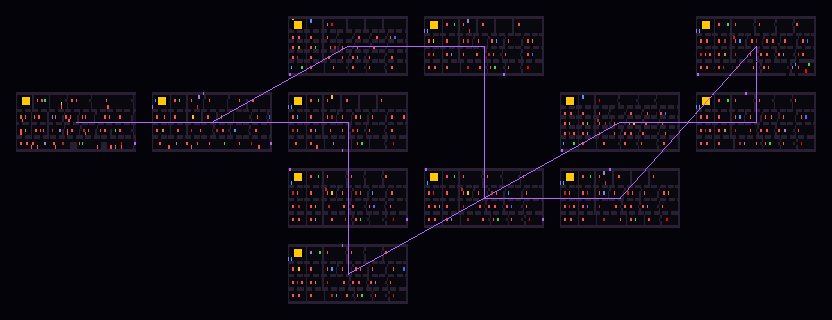
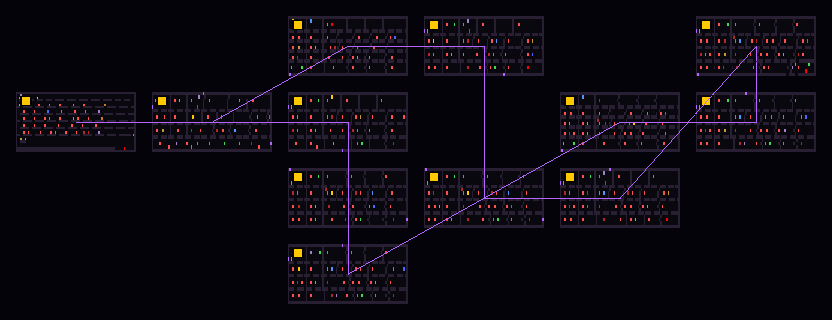
Update enemy sprites, zone gallery, and map images
- Replace Cave Bat and Fungal Spitter emoji placeholders with PixelLab
  pixel art sprites
- Expand zone gallery from 4 cards to full 12-zone list with boss names,
  ability rewards, and links to map detail pages
- Update enemy grid to 4-column layout for 8 enemy types
- Update Zone 1 dimensions to 80x26 organic layout (was 140x35 L-shape)
- Add layout meta card to Zone 1 detail page
- Regenerate zone map images from updated ASCII data

Changed region(s): [[0.0, 0.2812, 0.1562, 0.4688]]

diff --git a/index.html b/index.html
@@ -242,7 +242,7 @@
         </div>
         <div class="enemy-card">
           <div class="enemy-image">
-            <div class="enemy-placeholder">&#129415;</div>
+            <img src="images/characters/cave_bat_south.png" alt="Cave Bat" class="pixel-art">
           </div>
           <h4>Cave Bat</h4>
           <div class="enemy-type">Flying &amp; Swoop</div>
@@ -250,7 +250,7 @@
         </div>
         <div class="enemy-card">
           <div class="enemy-image">
-            <div class="enemy-placeholder">&#127812;</div>
+            <img src="images/characters/fungal_spitter_south.png" alt="Fungal Spitter" class="pixel-art">
           </div>
           <h4>Fungal Spitter</h4>
           <div class="enemy-type">Stationary &amp; Ranged</div>
@@ -267,23 +267,119 @@
       <h2 class="section-title">12 Zones of Dark Power</h2>
       <p class="section-subtitle">Each zone escalates in challenge and atmosphere, from shadowed caves to the edge of primordial darkness itself.</p>
 
-      <div class="zone-gallery">
-        <div class="zone-card">
-          <img src="images/backgrounds/bg_01_awakening.png" alt="The Awakening">
-          <div class="zone-card-overlay">1. The Awakening</div>
-        </div>
-        <div class="zone-card">
-          <img src="images/backgrounds/bg_06_abyssal_gate.png" alt="Abyssal Gate">
-          <div class="zone-card-overlay">6. Abyssal Gate</div>
-        </div>
-        <div class="zone-card">
-          <img src="images/backgrounds/bg_08_eldritch_convergence.png" alt="Eldritch Convergence">
-          <div class="zone-card-overlay">8. Eldritch Convergence</div>
-        </div>
-        <div class="zone-card">
-          <img src="images/backgrounds/bg_12_primordial_darkness.png" alt="Primordial Darkness">
-          <div class="zone-card-overlay">12. Primordial Darkness</div>
-        </div>
+      <div class="zone-list">
+        <a href="maps/zone-01-awakening.html" class="zone-row">
+          <img src="images/backgrounds/bg_01_awakening.png" alt="The Awakening" class="zone-row-bg">
+          <div class="zone-row-info">
+            <span class="zone-num">1</span>
+            <div>
+              <h4>The Awakening</h4>
+              <p>Boss: Awakening Guardian &middot; Reward: <strong>Dash</strong></p>
+            </div>
+          </div>
+        </a>
+        <a href="maps/zone-02-shadowed-path.html" class="zone-row">
+          <div class="zone-row-info">
+            <span class="zone-num">2</span>
+            <div>
+              <h4>Shadowed Path</h4>
+              <p>Boss: Shadow Stalker &middot; Reward: <strong>Mana Surge</strong></p>
+            </div>
+          </div>
+        </a>
+        <a href="maps/zone-03-whispering-dark.html" class="zone-row">
+          <div class="zone-row-info">
+            <span class="zone-num">3</span>
+            <div>
+              <h4>Whispering Dark</h4>
+              <p>Boss: Whispering Wraith &middot; Reward: <strong>Wall Climb</strong></p>
+            </div>
+          </div>
+        </a>
+        <a href="maps/zone-04-gathering-storm.html" class="zone-row">
+          <div class="zone-row-info">
+            <span class="zone-num">4</span>
+            <div>
+              <h4>Gathering Storm</h4>
+              <p>Boss: Storm Herald &middot; Reward: <strong>Dark Harvest</strong></p>
+            </div>
+          </div>
+        </a>
+        <a href="maps/zone-05-veil-torn.html" class="zone-row">
+          <div class="zone-row-info">
+            <span class="zone-num">5</span>
+            <div>
+              <h4>Veil Torn</h4>
+              <p>Boss: Veil Ripper &middot; Reward: <strong>Essence Storm</strong></p>
+            </div>
+          </div>
+        </a>
+        <a href="maps/zone-06-abyssal-gate.html" class="zone-row">
+          <img src="images/backgrounds/bg_06_abyssal_gate.png" alt="Abyssal Gate" class="zone-row-bg">
+          <div class="zone-row-info">
+            <span class="zone-num">6</span>
+            <div>
+              <h4>Abyssal Gate</h4>
+              <p>Boss: Gate Keeper &middot; Reward: <strong>Shadow Clone</strong></p>
+            </div>
+          </div>
+        </a>
+        <a href="maps/zone-07-shadow-dominion.html" class="zone-row">
+          <div class="zone-row-info">
+            <span class="zone-num">7</span>
+            <div>
+              <h4>Shadow Dominion</h4>
+              <p>Boss: Shadow Lord &middot; Reward: <strong>Time Warp</strong></p>
+            </div>
+          </div>
+        </a>
+        <a href="maps/zone-08-eldritch-convergence.html" class="zone-row">
+          <img src="images/backgrounds/bg_08_eldritch_convergence.png" alt="Eldritch Convergence" class="zone-row-bg">
+          <div class="zone-row-info">
+            <span class="zone-num">8</span>
+            <div>
+              <h4>Eldritch Convergence</h4>
+              <p>Boss: Eldritch Horror &middot; Reward: <strong>Double Jump</strong></p>
+            </div>
+          </div>
+        </a>
+        <a href="maps/zone-09-dark-ascension.html" class="zone-row">
+          <div class="zone-row-info">
+            <span class="zone-num">9</span>
+            <div>
+              <h4>Dark Ascension</h4>
+              <p>Boss: Ascended One &middot; Reward: <strong>Void Pulse</strong></p>
+            </div>
+          </div>
+        </a>
+        <a href="maps/zone-10-void-emperor.html" class="zone-row">
+          <div class="zone-row-info">
+            <span class="zone-num">10</span>
+            <div>
+              <h4>Void Emperor's Throne</h4>
+              <p>Boss: Void Emperor &middot; Reward: <strong>Dark Pact</strong></p>
+            </div>
+          </div>
+        </a>
+        <a href="maps/zone-11-eternal-shadow.html" class="zone-row">
+          <div class="zone-row-info">
+            <span class="zone-num">11</span>
+            <div>
+              <h4>Eternal Shadow</h4>
+              <p>Boss: Eternal Shade &middot; No new ability</p>
+            </div>
+          </div>
+        </a>
+        <a href="maps/zone-12-primordial-darkness.html" class="zone-row">
+          <img src="images/backgrounds/bg_12_primordial_darkness.png" alt="Primordial Darkness" class="zone-row-bg">
+          <div class="zone-row-info">
+            <span class="zone-num">12</span>
+            <div>
+              <h4>Primordial Darkness</h4>
+              <p>Boss: Primordial One &middot; Final boss</p>
+            </div>
+          </div>
+        </a>
       </div>
     </div>
   </section>

diff --git a/css/style.css b/css/style.css
@@ -297,49 +297,88 @@ section {
   line-height: 1.7;
 }
 
-/* Zone Gallery */
+/* Zone List */
 .zones-section {
   background: var(--bg-dark);
 }
 
-.zone-gallery {
-  display: grid;
-  grid-template-columns: repeat(4, 1fr);
-  gap: 12px;
+.zone-list {
+  display: flex;
+  flex-direction: column;
+  gap: 8px;
   margin-top: 48px;
+  max-width: 700px;
+  margin-left: auto;
+  margin-right: auto;
 }
 
-.zone-card {
-  border-radius: 8px;
-  overflow: hidden;
+.zone-row {
+  display: flex;
+  align-items: center;
   position: relative;
-  aspect-ratio: 16/10;
+  background: var(--bg-panel);
   border: 1px solid var(--border-subtle);
-  transition: transform 0.2s;
+  border-radius: 10px;
+  padding: 16px 20px;
+  text-decoration: none;
+  color: inherit;
+  overflow: hidden;
+  transition: transform 0.2s, box-shadow 0.2s;
 }
 
-.zone-card:hover {
-  transform: scale(1.03);
+.zone-row:hover {
+  transform: translateX(4px);
+  box-shadow: 0 4px 16px rgba(123, 104, 238, 0.15);
 }
 
-.zone-card img {
+.zone-row-bg {
+  position: absolute;
+  inset: 0;
   width: 100%;
   height: 100%;
   object-fit: cover;
-  display: block;
+  opacity: 0.18;
   image-rendering: pixelated;
+  pointer-events: none;
 }
 
-.zone-card-overlay {
-  position: absolute;
-  bottom: 0;
-  left: 0;
-  right: 0;
-  padding: 8px 12px;
-  background: linear-gradient(transparent, rgba(10, 10, 18, 0.9));
-  font-size: 0.7rem;
+.zone-row-info {
+  display: flex;
+  align-items: center;
+  gap: 16px;
+  position: relative;
+  z-index: 1;
+}
+
+.zone-num {
+  display: flex;
+  align-items: center;
+  justify-content: center;
+  min-width: 36px;
+  height: 36px;
+  border-radius: 8px;
+  background: rgba(123, 104, 238, 0.2);
+  color: var(--accent-purple);
+  font-weight: 800;
+  font-size: 0.95rem;
+  flex-shrink: 0;
+}
+
+.zone-row h4 {
+  font-size: 1rem;
   font-weight: 600;
+  margin-bottom: 2px;
   color: var(--text-primary);
+}
+
+.zone-row p {
+  font-size: 0.8rem;
+  color: var(--text-secondary);
+  margin: 0;
+}
+
+.zone-row p strong {
+  color: var(--accent-gold);
 }
 
 /* Lore / Story Section */
@@ -647,7 +686,7 @@ section {
 
 .enemy-grid {
   display: grid;
-  grid-template-columns: repeat(3, 1fr);
+  grid-template-columns: repeat(4, 1fr);
   gap: 24px;
   margin-top: 32px;
 }
@@ -721,8 +760,8 @@ section {
     grid-template-columns: 1fr 1fr;
   }
 
-  .zone-gallery {
-    grid-template-columns: repeat(2, 1fr);
+  .zone-list {
+    max-width: 100%;
   }
 
   .specs-grid {
@@ -748,7 +787,7 @@ section {
   }
 
   .enemy-grid {
-    grid-template-columns: 1fr 1fr;
+    grid-template-columns: repeat(2, 1fr);
   }
 }
 

diff --git a/maps/index.html b/maps/index.html
@@ -66,7 +66,7 @@
   <img src="images/zone-01.png" alt="Zone 1" class="zone-card-img" loading="lazy">
   <div class="zone-card-body">
     <h3>Zone 1: The Awakening</h3>
-    <p class="zone-shape">L-shape &middot; 140&times;35</p>
+    <p class="zone-shape">Organic &middot; 80&times;26</p>
     <p class="zone-boss">Boss: Awakening Guardian</p>
     <p class="zone-ability">Reward: Dash</p>
   </div>

diff --git a/maps/zone-01-awakening.html b/maps/zone-01-awakening.html
@@ -45,6 +45,10 @@
     <p>3 types</p>
   </div>
   <div class="meta-card">
+    <h3>Layout</h3>
+    <p>Organic 80&times;26 &middot; 15 rooms &middot; 3 tiers</p>
+  </div>
+  <div class="meta-card">
     <h3>Connections</h3>
     <p>Right: Zone 2</p>
   </div>
